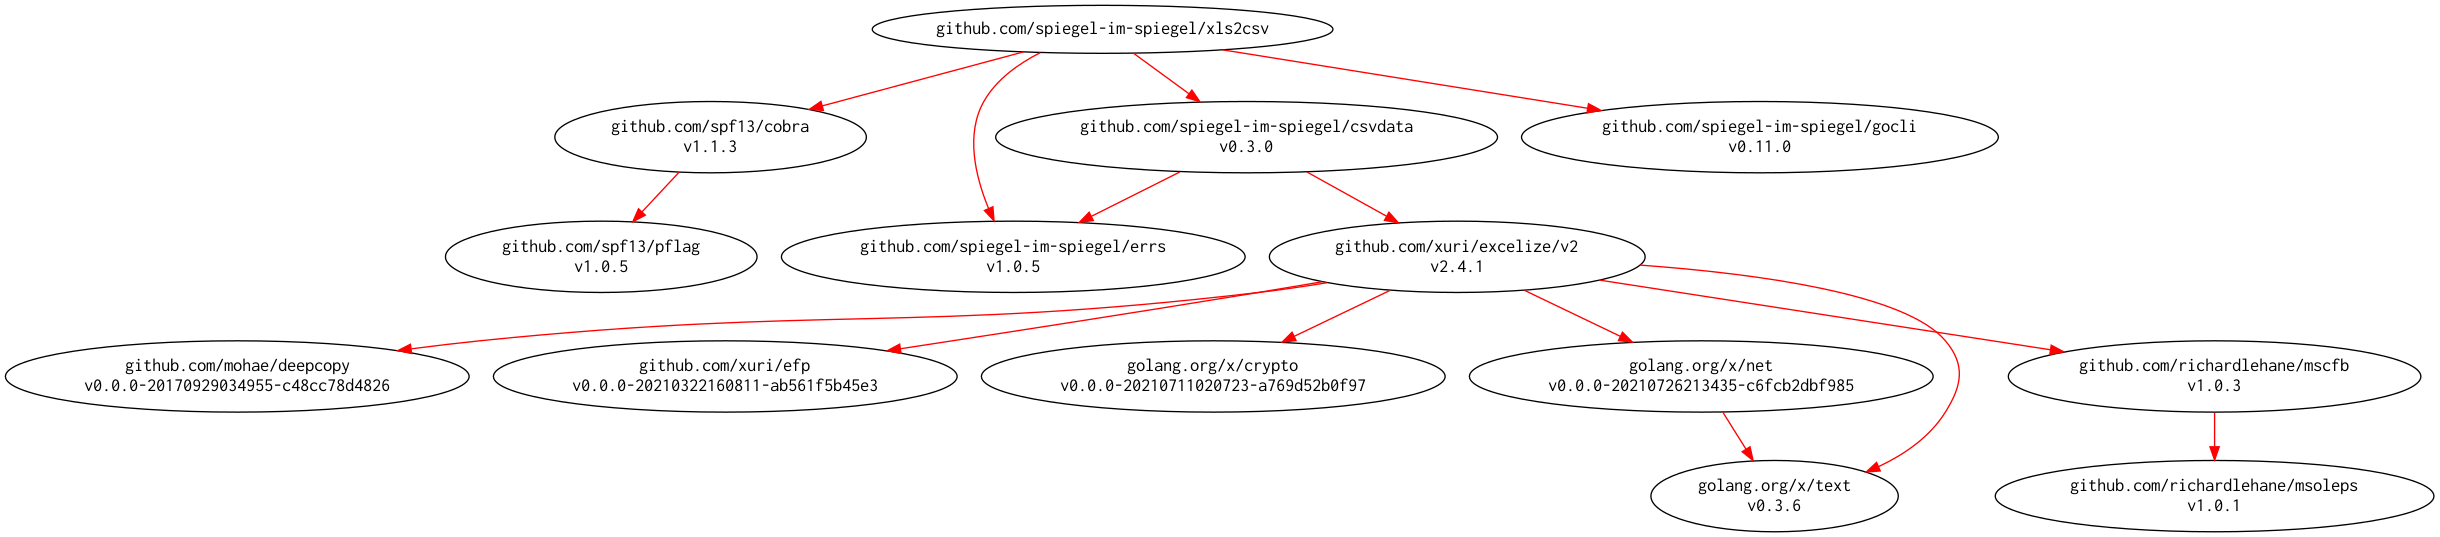
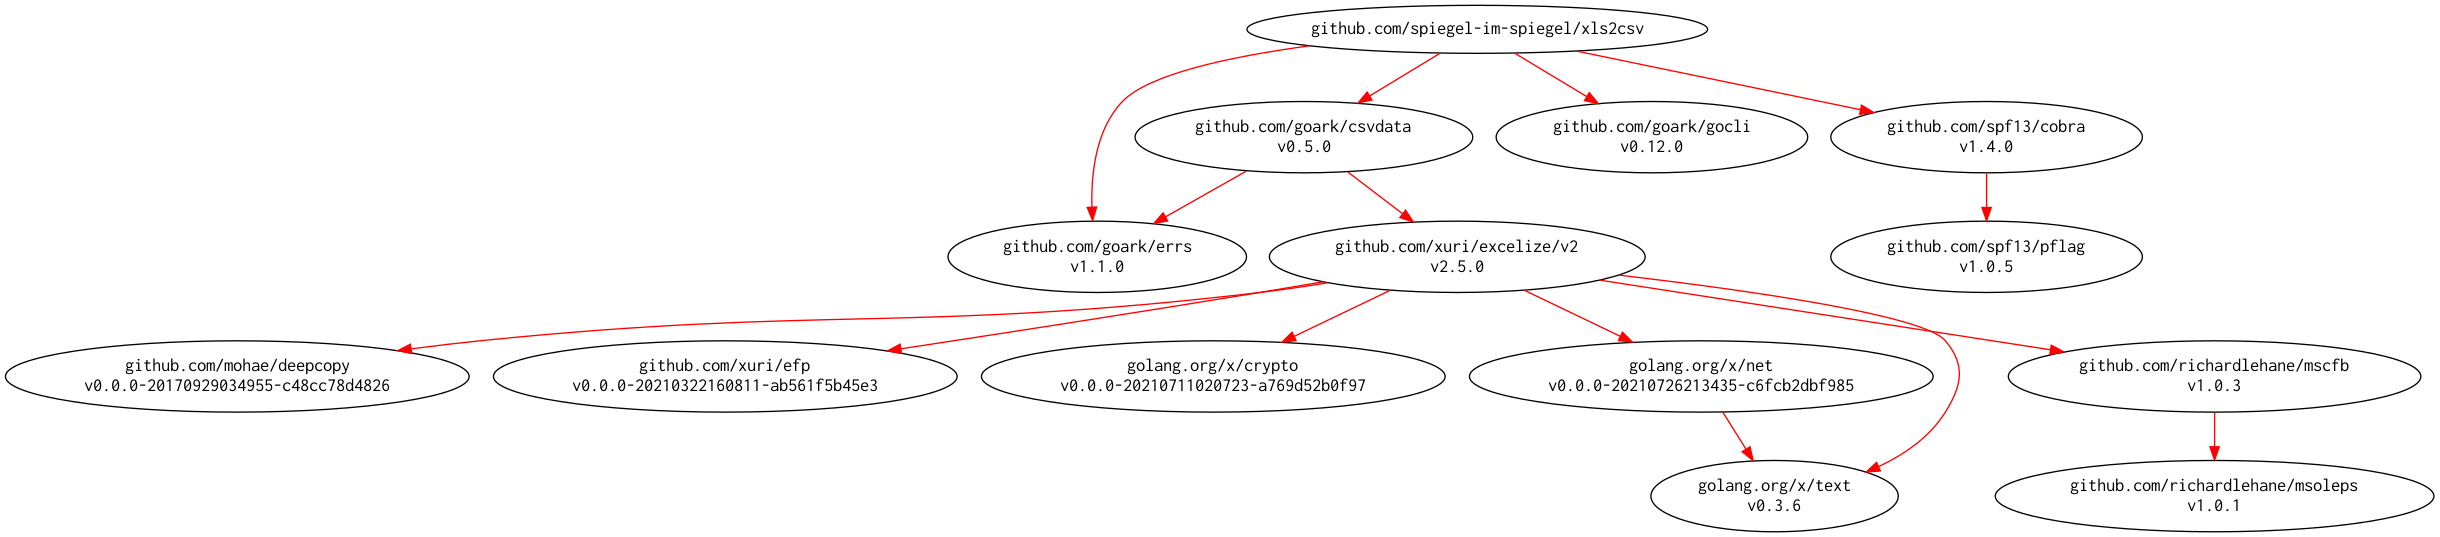
Bump up versions of external packages

diff --git a/conv/conv.go b/conv/conv.go
@@ -4,9 +4,9 @@ import (
 	"encoding/csv"
 	"io"
 
-	"github.com/spiegel-im-spiegel/csvdata"
-	"github.com/spiegel-im-spiegel/csvdata/exceldata"
-	"github.com/spiegel-im-spiegel/errs"
+	"github.com/goark/csvdata"
+	"github.com/goark/csvdata/exceldata"
+	"github.com/goark/errs"
 )
 
 func ToCsv(w io.Writer, r *exceldata.Reader, comma rune, winNewline bool) error {

diff --git a/facade/facade.go b/facade/facade.go
@@ -4,10 +4,11 @@ import (
 	"os"
 	"runtime"
 
+	"github.com/goark/gocli/exitcode"
+	"github.com/goark/gocli/rwi"
+
+	"github.com/goark/errs"
 	"github.com/spf13/cobra"
-	"github.com/spiegel-im-spiegel/errs"
-	"github.com/spiegel-im-spiegel/gocli/exitcode"
-	"github.com/spiegel-im-spiegel/gocli/rwi"
 	"github.com/spiegel-im-spiegel/xls2csv/conv"
 )
 

diff --git a/conv/file.go b/conv/file.go
@@ -1,8 +1,8 @@
 package conv
 
 import (
-	"github.com/spiegel-im-spiegel/csvdata/exceldata"
-	"github.com/spiegel-im-spiegel/errs"
+	"github.com/goark/csvdata/exceldata"
+	"github.com/goark/errs"
 )
 
 func OpenXlsxFileSheet(path, password, sheetName string) (*exceldata.Reader, error) {

diff --git a/facade/debug.go b/facade/debug.go
@@ -3,7 +3,7 @@ package facade
 import (
 	"fmt"
 
-	"github.com/spiegel-im-spiegel/gocli/rwi"
+	"github.com/goark/gocli/rwi"
 )
 
 func debugPrint(ui *rwi.RWI, err error) error {

diff --git a/main.go b/main.go
@@ -3,7 +3,8 @@ package main
 import (
 	"os"
 
-	"github.com/spiegel-im-spiegel/gocli/rwi"
+	"github.com/goark/gocli/rwi"
+
 	"github.com/spiegel-im-spiegel/xls2csv/facade"
 )
 

diff --git a/conv/conv_test.go b/conv/conv_test.go
@@ -7,7 +7,7 @@ import (
 	"syscall"
 	"testing"
 
-	"github.com/spiegel-im-spiegel/csvdata"
+	"github.com/goark/csvdata"
 	"github.com/spiegel-im-spiegel/xls2csv/conv"
 )
 
